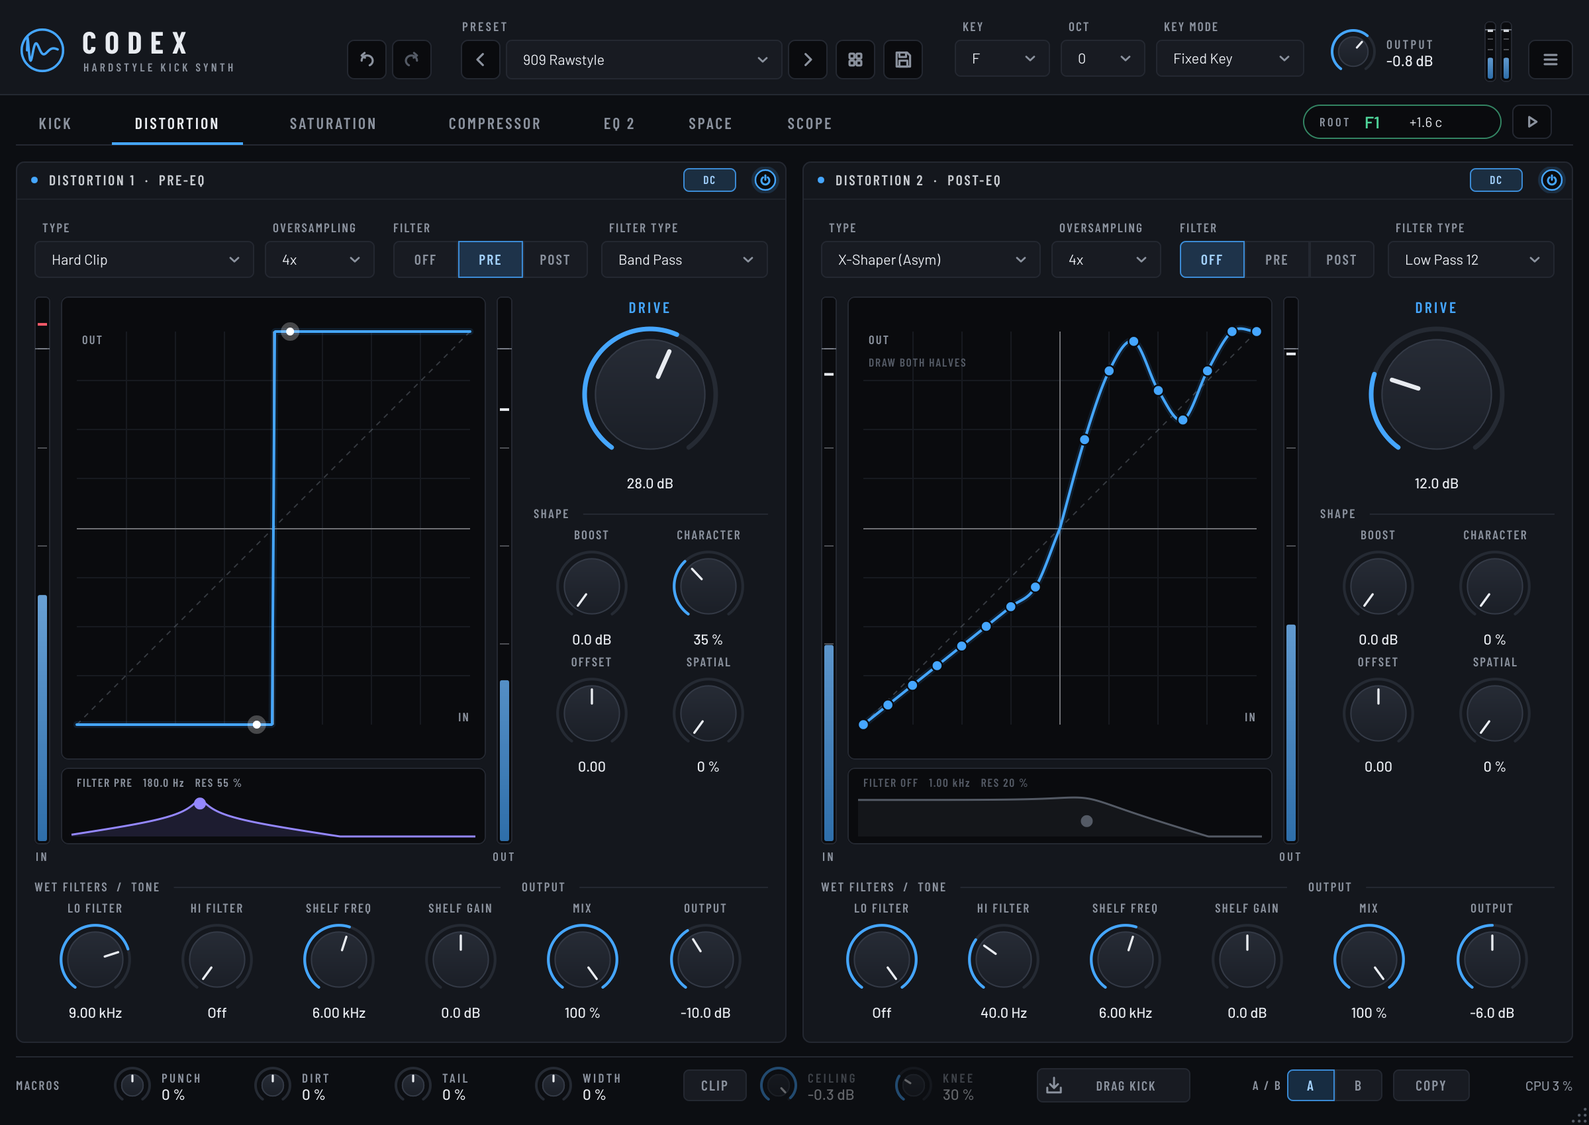
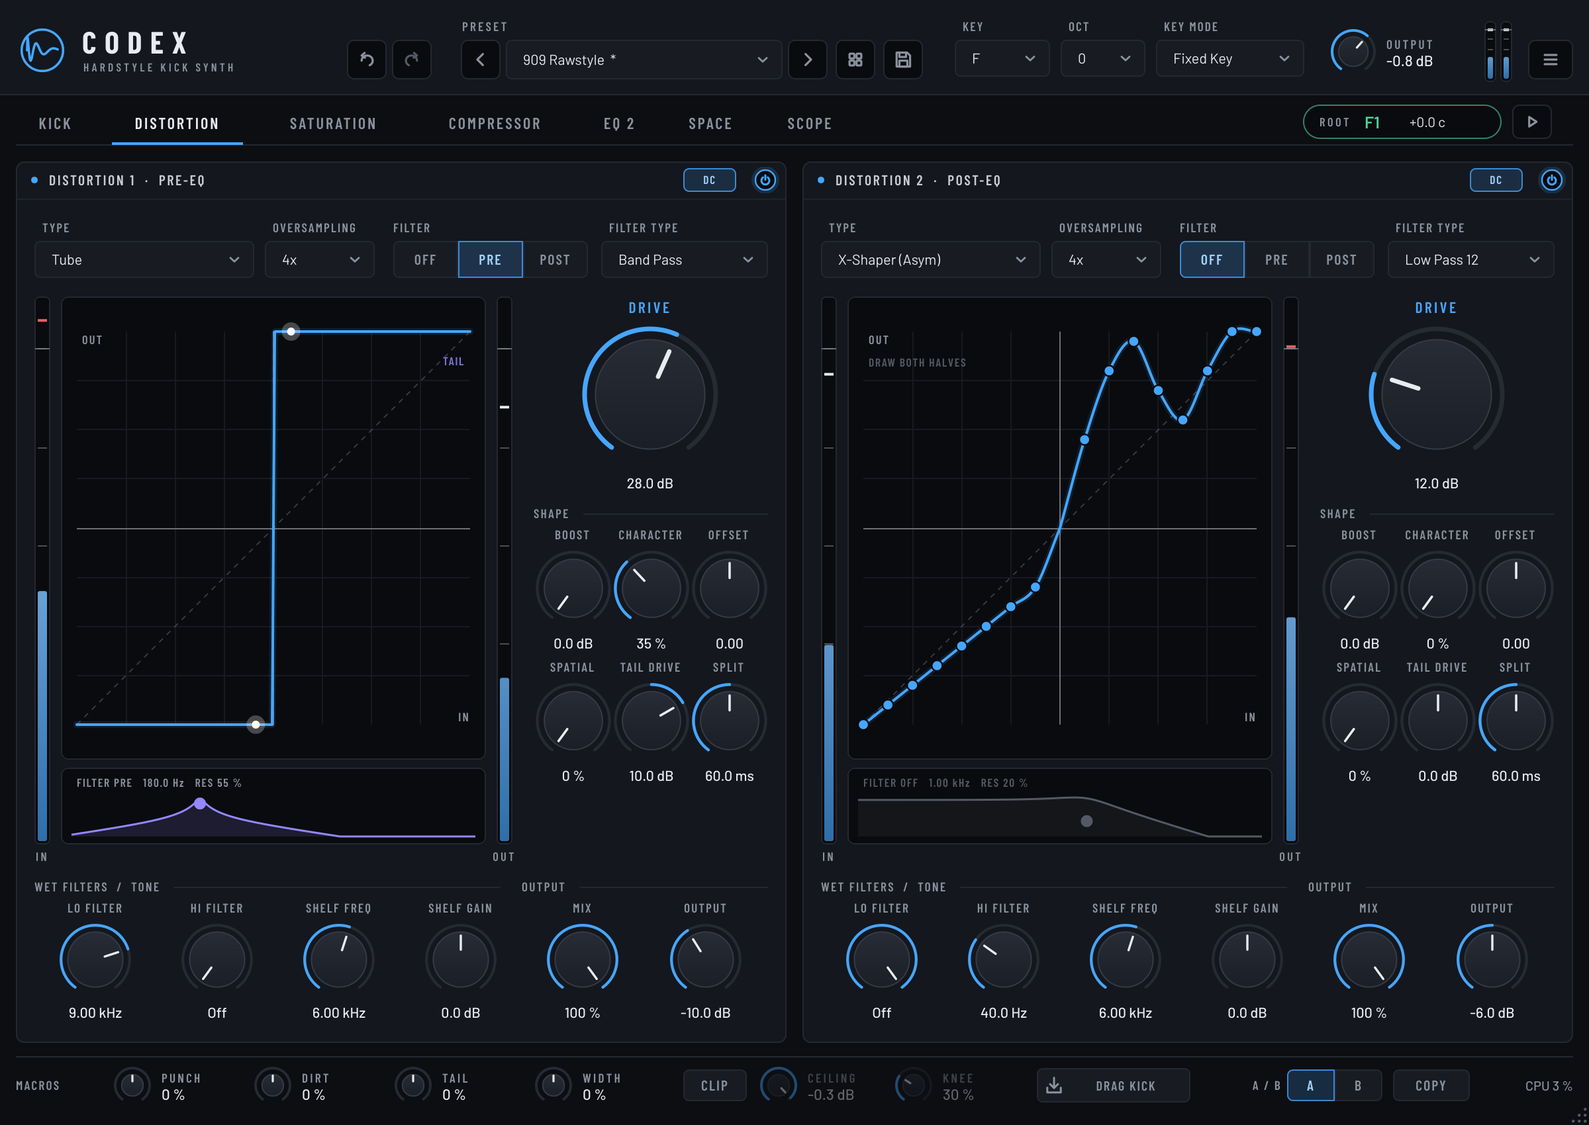
Distortion: punch / tail split (Tail Drive + Split, sample-accurate, tail curve in the display); tuner never shows -0.0
Claude-Session: https://claude.ai/code/session_01XxMp2YJXw4rSjWE8GsvmNR

diff --git a/Source/GUI/DistortionView.h b/Source/GUI/DistortionView.h
@@ -15,6 +15,7 @@ public:
     {
         auto p = [&] (const char* sfx) { return s.getRawParameterValue (ID::clip (stage, sfx)); };
         mode = p ("Mode"); drive = p ("Drive"); boost = p ("Boost"); offset = p ("Bias"); chr = p ("Char"); on = p ("On");
+        tailDrv = p ("TailDrv");
         for (int k = 0; k < ClipDistortion::numCurvePoints; ++k)
         {
             xp[(size_t) k] = s.getParameter (ID::clip (stage, ("XP" + juce::String (k + 1)).toRawUTF8()));
@@ -89,6 +90,24 @@ public:
             if (i == 0) curvePath.startNewSubPath (pt); else curvePath.lineTo (pt);
         }
         const auto col = enabled ? Colours_::accent : Colours_::textDim;
+        // the tail's curve (Tail Drive), dashed, behind the punch curve
+        if (enabled && ! shaper && std::abs (tailDrv->load()) > 0.05f)
+        {
+            const float tailGain = Decibels::decibelsToGain (drive->load() + boost->load() + tailDrv->load());
+            Path tail;
+            for (int i = 0; i <= steps; ++i)
+            {
+                const float x = -1.0f + 2.0f * (float) i / (float) steps;
+                const auto pt = toPoint (x, ClipDistortion::transfer (m, x, tailGain, off, c, &cv));
+                if (i == 0) tail.startNewSubPath (pt); else tail.lineTo (pt);
+            }
+            float dash[] = { 5.0f, 4.0f };
+            PathStrokeType (1.4f).createDashedStroke (tail, tail, dash, 2);
+            g.setColour (Colours_::accent2.withAlpha (0.85f));
+            g.fillPath (tail);
+            g.setFont (Fonts::label (10.5f, 0.08f));
+            g.drawText ("TAIL", Rectangle<float> (plot.getRight() - 44.0f, plot.getY() + 16.0f, 40.0f, 12.0f), Justification::centredRight);
+        }
         Colours_::strokeGlow (g, curvePath, col, 2.0f);
 
         if (shaper)
@@ -247,7 +266,7 @@ private:
 
     juce::AudioProcessorValueTreeState& apvts;
     int stage;
-    std::atomic<float> *mode, *drive, *boost, *offset, *chr, *on;
+    std::atomic<float> *mode, *drive, *boost, *offset, *chr, *on, *tailDrv;
     std::array<juce::RangedAudioParameter*, ClipDistortion::numCurvePoints> xp {}, xn {};
     juce::Rectangle<float> plot;
     float level = 0.0f, lastY = 0.0f;
@@ -389,6 +408,8 @@ public:
         character.attach (s, ID::clip (stage, "Char"));
         offset.attach (s, ID::clip (stage, "Bias"));
         spatial.attach (s, ID::clip (stage, "Spatial"));
+        tailDrive.attach (s, ID::clip (stage, "TailDrv"));
+        split.attach (s, ID::clip (stage, "Split"));
         loFilter.attach (s, ID::clip (stage, "LoFilt"));
         hiFilter.attach (s, ID::clip (stage, "HiFilt"));
         shelfFreq.attach (s, ID::clip (stage, "ShelfF"));
@@ -400,7 +421,7 @@ public:
         drive.label.setColour (juce::Label::textColourId, Colours_::accent);
 
         for (juce::Component* c : std::initializer_list<juce::Component*> {
-                 &power, &dcButton, &type, &oversampling, &filterPos, &filterType, &filterStrip, &transfer, &drive, &boost, &character, &offset, &spatial,
+                 &power, &dcButton, &type, &oversampling, &filterPos, &filterType, &filterStrip, &transfer, &drive, &boost, &character, &offset, &spatial, &tailDrive, &split,
                  &loFilter, &hiFilter, &shelfFreq, &shelfGain, &mix, &output, &inMeter, &outMeter })
             addAndMakeVisible (c);
 
@@ -499,12 +520,11 @@ public:
         middle.removeFromTop (6);
         shapeCaption = middle.removeFromTop (16);
         auto grid = middle;
-        const int rowH = juce::jmin (96, grid.getHeight() / 2);
+        const int rowH = juce::jmin (100, grid.getHeight() / 2);
         auto row1 = grid.removeFromTop (rowH), row2 = grid.removeFromTop (rowH);
-        boost.setBounds (row1.removeFromLeft (row1.getWidth() / 2));
-        character.setBounds (row1);
-        offset.setBounds (row2.removeFromLeft (row2.getWidth() / 2));
-        spatial.setBounds (row2);
+        const int cw = row1.getWidth() / 3;
+        boost.setBounds (row1.removeFromLeft (cw)); character.setBounds (row1.removeFromLeft (cw)); offset.setBounds (row1);
+        spatial.setBounds (row2.removeFromLeft (cw)); tailDrive.setBounds (row2.removeFromLeft (cw)); split.setBounds (row2);
 
         bypassNotice.setBounds (getLocalBounds().withTrimmedTop (29).reduced (1));
     }
@@ -546,7 +566,8 @@ private:
     TransferDisplay transfer;
     DistortionFilterStrip filterStrip;
     SegmentedChoice filterPos;
-    Knob drive { "Drive" }, boost { "Boost" }, character { "Character" }, offset { "Offset" }, spatial { "Spatial" };
+    Knob drive { "Drive" }, boost { "Boost" }, character { "Character" }, offset { "Offset" }, spatial { "Spatial" },
+         tailDrive { "Tail Drive" }, split { "Split" };
     Knob loFilter { "Lo Filter" }, hiFilter { "Hi Filter" }, shelfFreq { "Shelf Freq" }, shelfGain { "Shelf Gain" };
     Knob mix { "Mix" }, output { "Output" };
     LevelMeter inMeter, outMeter;

diff --git a/Source/DSP/ClipDistortion.h b/Source/DSP/ClipDistortion.h
@@ -77,11 +77,21 @@ public:
         int   filterPos = 0, filterType = LowPass12;   // filterPos: 0 = off, 1 = pre, 2 = post
         float filterHz = 1000.0f, filterRes = 0.2f;
         Curve curve;
+        // Punch / tail split: the drive moves by tailDriveDb from the hit to the tail over splitMs after each note-on
+        float tailDriveDb = 0.0f, splitMs = 60.0f;
     };
+
+    /** Drive change (dB) at a time after the hit: 0 at the hit, tailDriveDb after splitMs (smoothstep). */
+    static float tailDriveAt (float tailDriveDb, float splitMs, float msSinceHit) noexcept
+    {
+        const float u = juce::jlimit (0.0f, 1.0f, msSinceHit / juce::jmax (1.0f, splitMs));
+        return tailDriveDb * u * u * (3.0f - 2.0f * u);
+    }
 
     void prepare (double sr, int maxBlockSize)
     {
         baseRate = sr;
+        tailMul.assign ((size_t) juce::jmax (1, maxBlockSize), 1.0f);
         fixedTable (0);                                   // build the shared ADAA tables here, never on the audio thread
         curveTable.build ([] (float x) { return juce::jlimit (-1.0f, 1.0f, x); }, false);   // allocate the X-Shaper table up front
         for (int i = 0; i < 4; ++i)
@@ -121,8 +131,15 @@ public:
         applySettings (false);
     }
 
-    void process (float* left, float* right, int numSamples) noexcept
+    /** hitMs (optional): milliseconds since the last note-on for every sample (punch / tail split). */
+    void process (float* left, float* right, int numSamples, const float* hitMs = nullptr) noexcept
     {
+        // per-sample drive multiplier for the punch / tail split (computed at the base rate)
+        tailActive = hitMs != nullptr && std::abs (settings.tailDriveDb) > 0.01f && numSamples <= (int) tailMul.size();
+        if (tailActive)
+            for (int i = 0; i < numSamples; ++i)
+                tailMul[(size_t) i] = juce::Decibels::decibelsToGain (tailDriveAt (settings.tailDriveDb, settings.splitMs, hitMs[i]));
+
         float inPk = 0.0f;
         for (int i = 0; i < numSamples; ++i)
         {
@@ -447,7 +464,8 @@ private:
         if (filterPos != 0) updateFilterCoefficients (filterCutoff.getCurrentValue());
         for (int i = 0; i < n; ++i)
         {
-            const float d = drive.getNextValue(), off = offset.getNextValue(), chr = character.getNextValue();
+            const float d = drive.getNextValue() * (tailActive ? tailMul[(size_t) (i / osFactor)] : 1.0f);
+            const float off = offset.getNextValue(), chr = character.getNextValue();
             const float sp = spatial.getNextValue(), m = mix.getNextValue(), og = outGain.getNextValue();
             if (filterPos != 0 && filterCutoff.isSmoothing()) updateFilterCoefficients (filterCutoff.getNextValue());
 
@@ -499,6 +517,8 @@ private:
 
     double baseRate = 44100.0;
     std::array<std::unique_ptr<juce::dsp::Oversampling<float>>, 4> oversamplers;
+    std::vector<float> tailMul;
+    bool tailActive = false;
     int osFactor = 1;
     double curRate = 44100.0;
     juce::SmoothedValue<float, juce::ValueSmoothingTypes::Multiplicative> filterCutoff { 1000.0f };

diff --git a/Source/PluginProcessor.cpp b/Source/PluginProcessor.cpp
@@ -30,7 +30,7 @@ CodexProcessor::CodexProcessor()
         auto c = [&] (const char* sfx) { return p (ID::clip (s + 1, sfx)); };
         clipParams[s] = { c ("On"), c ("Mode"), c ("Drive"), c ("Boost"), c ("Char"), c ("Bias"), c ("LoFilt"), c ("HiFilt"),
                           c ("ShelfF"), c ("ShelfG"), c ("Mix"), c ("Out"), c ("DC"), c ("OS"), c ("Spatial"),
-                          c ("FltPos"), c ("FltType"), c ("FltFreq"), c ("FltRes") };
+                          c ("FltPos"), c ("FltType"), c ("FltFreq"), c ("FltRes"), c ("TailDrv"), c ("Split") };
         for (int k = 0; k < ClipDistortion::numCurvePoints; ++k)
         {
             clipParams[s].xp[(size_t) k] = c (("XP" + juce::String (k + 1)).toRawUTF8());
@@ -105,7 +105,7 @@ void CodexProcessor::prepareToPlay (double sampleRate, int samplesPerBlock)
     subDelayPos = 0;
     subLp1.reset(); subLp2.reset();
     subGain.reset (sampleRate, 0.02);
-    for (auto* v : { &left, &right, &mid, &sub })
+    for (auto* v : { &left, &right, &mid, &sub, &hitTime, &hitTime2 })
         v->assign ((size_t) chunkSize, 0.0f);
     scopePos = -1;
 
@@ -224,6 +224,8 @@ void CodexProcessor::updateParameters()
         cs.filterType   = (int) c.fltType->load();
         cs.filterHz     = c.fltFreq->load();
         cs.filterRes    = c.fltRes->load();
+        cs.tailDriveDb  = c.tailDrv->load();
+        cs.splitMs      = c.split->load();
         for (int k = 0; k < ClipDistortion::numCurvePoints; ++k)
         {
             cs.curve.pos[(size_t) k] = c.xp[(size_t) k]->load();
@@ -414,17 +416,23 @@ void CodexProcessor::processBlock (juce::AudioBuffer<float>& buffer, juce::MidiB
                 else          { next = std::min (t, n); break; }
             }
             voice.subOut = sub.data() + pos;
+            voice.hitTimeOut = hitTime.data() + pos;
             voice.render (l + pos, next - pos);
             pos = next;
         }
         std::copy (l, l + n, r);
 
         // Old-school chain: distort -> EQ -> distort again -> multiband saturation -> compressor -> EQ 2 -> space (stereo from here on)
-        clip1.process (l, r, n);
+        clip1.process (l, r, n, hitTime.data());
         for (int i = 0; i < n; ++i) m[i] = 0.5f * (l[i] + r[i]);
         analyzerPre.push (m, n);           // spectrum before the EQ (for the EQ display)
         equalisers[0].process (l, r, n);
-        clip2.process (l, r, n);
+        {
+            // Distortion 2 hears the hit later (Distortion 1 oversampling and EQ 1 latency): shift its clock
+            const float lagMs = (float) ((clip1.getLatencyInSamples() + equalisers[0].getLatencyInSamples()) * 1000.0 / getSampleRate());
+            for (int i = 0; i < n; ++i) hitTime2[(size_t) i] = hitTime[(size_t) i] >= lagMs ? hitTime[(size_t) i] - lagMs : 1.0e6f;
+        }
+        clip2.process (l, r, n, hitTime2.data());
         saturator.process (l, r, n);
         compressor.process (l, r, n);      // multiband up / down compression (off by default)
         for (int i = 0; i < n; ++i) m[i] = 0.5f * (l[i] + r[i]);

diff --git a/tools/Render.cpp b/tools/Render.cpp
@@ -945,6 +945,37 @@ int main (int argc, char** argv)
             std::cout << "  Downsample at max drive: " << repeats << " of 1999 samples held\n";
             if (repeats < 1800) ++bad;
         }
+        // punch / tail split in the plugin: tail drive changes the tail, not the punch
+        {
+            auto harmonicDb = [] (const juce::AudioBuffer<float>& b, double t0, double t1)
+            {
+                // energy above 300 Hz relative to the total (more distortion = more upper harmonics)
+                eq::BandSettings hp; hp.on = true; hp.type = eq::BandType::LowCut; hp.freq = 300.0f; hp.slope = 3;
+                auto d = eq::design (hp, sr);
+                std::vector<eq::Biquad> st ((size_t) d.numStages);
+                for (int k = 0; k < d.numStages; ++k) st[(size_t) k].c = d.stages[(size_t) k];
+                double hi = 0, all = 0;
+                for (int i = 0; i < (int) (t1 * sr); ++i)
+                {
+                    float v = b.getSample (0, i), h = v;
+                    for (auto& f : st) h = f.process (h);
+                    if (i >= (int) (t0 * sr)) { hi += (double) h * h; all += (double) v * v; }
+                }
+                return (float) (10.0 * std::log10 (hi / juce::jmax (1.0e-12, all)));
+            };
+            proc.presets.loadPreset (8);
+            setParam (proc, ID::clip (1, "Drive"), 6.0f);
+            const auto plain = render (proc, 1);
+            setParam (proc, ID::clip (1, "TailDrv"), 18.0f);
+            setParam (proc, ID::clip (1, "Split"), 40.0f);
+            const auto split = render (proc, 1);
+            const float punchA = harmonicDb (plain, 0.0, 0.012), punchB = harmonicDb (split, 0.0, 0.012);
+            const float tailA = harmonicDb (plain, 0.15, 0.3), tailB = harmonicDb (split, 0.15, 0.3);
+            std::cout << "  Punch / tail split (+18 dB tail drive): punch harmonics " << juce::String (punchA, 1) << " -> " << juce::String (punchB, 1)
+                      << " dB, tail harmonics " << juce::String (tailA, 1) << " -> " << juce::String (tailB, 1) << " dB\n";
+            if (std::abs (punchB - punchA) > 1.5f || tailB < tailA + 3.0f) ++bad;
+            proc.presets.loadPreset (0);
+        }
         std::cout << "Distortion engine checks: " << (bad == 0 ? "OK" : "FAILED") << "\n";
         failures += bad;
     }
@@ -1218,6 +1249,7 @@ int main (int argc, char** argv)
     proc.presets.loadPreset (10);
     setParam (proc, ID::clip (1, "FltPos"), 1.0f); setParam (proc, ID::clip (1, "FltType"), 2.0f);
     setParam (proc, ID::clip (1, "FltFreq"), 180.0f); setParam (proc, ID::clip (1, "FltRes"), 0.55f);
+    setParam (proc, ID::clip (1, "TailDrv"), 10.0f); setParam (proc, ID::clip (1, "Mode"), (float) ClipDistortion::Tube);
     setParam (proc, ID::clip (2, "Mode"), (float) ClipDistortion::XShaperAsym);
     {
         const float ys[] = { 0.45f, 0.8f, 0.95f, 0.7f, 0.55f, 0.8f, 1.0f, 1.0f };

diff --git a/Source/DSP/KickVoice.h b/Source/DSP/KickVoice.h
@@ -40,6 +40,8 @@ public:
 
     /** Optional second output: the clean sub layer (same length as `out`), or nullptr. */
     float* subOut = nullptr;
+    /** Optional output: milliseconds since the last note-on, per sample (for the distortion's punch / tail split). */
+    float* hitTimeOut = nullptr;
     /** Level of the current note from its velocity (set before noteOn). */
     float velocityGain = 1.0f;
 
@@ -116,6 +118,7 @@ public:
         pulseEnv = 1.0f;
         env909 = fast909 = slow909 = 1.0f;
         subTime = 0.0f;
+        hitClock = 0.0f;
     }
 
     void noteOff (int midiNote)
@@ -143,6 +146,10 @@ public:
 
     void render (float* out, int numSamples) noexcept
     {
+        if (hitTimeOut != nullptr)
+            for (int i = 0; i < numSamples; ++i) { hitTimeOut[i] = hitClock; hitClock = std::min (hitClock + msPerSample, 1.0e6f); }
+        else
+            hitClock = std::min (hitClock + msPerSample * (float) numSamples, 1.0e6f);
         if (settings.engine == Engine909) render909 (out, numSamples);
         else                              renderSynth (out, numSamples);
     }
@@ -277,7 +284,7 @@ private:
     Kick909Model model = kick909Models()[0];
     double baseFreq = 55.0, phase = 0.0;
     int currentNote = -1;
-    float subTime = 0.0f, msPerSample = 1000.0f / 44100.0f, noteGain = 1.0f;
+    float subTime = 0.0f, msPerSample = 1000.0f / 44100.0f, noteGain = 1.0f, hitClock = 1.0e6f;
 
     float clickEnv = 0.0f, clickMul = 0.99f, noiseLevel = 0.0f;
     float pulseEnv = 0.0f, pulseMul = 0.9f, pulseLevel = 0.0f;

diff --git a/Source/GUI/Tuner.h b/Source/GUI/Tuner.h
@@ -106,7 +106,8 @@ public:
         const bool hasReading = analyser.hasReading();
         const float shownNote = hasReading ? frequencyToMidi (analyser.getMeasuredHz()) : target;
         const int nearest = roundToInt (shownNote);
-        const float cents = (shownNote - (float) nearest) * 100.0f;
+        float cents = (shownNote - (float) nearest) * 100.0f;
+        if (std::abs (cents) < 0.05f) cents = 0.0f;   // never show "-0.0"
         const bool onTarget = hasReading && std::abs (shownNote - target) < 0.1f;   // within 10 cents
         const auto noteColour = ! hasReading ? Colours_::textDim : (onTarget ? Colour (0xff51e5a0) : Colours_::accent);
 
@@ -183,7 +184,8 @@ public:
         const float target = analyser.getTargetNote();
         const float note = has ? frequencyToMidi (analyser.getMeasuredHz()) : target;
         const int nearest = roundToInt (note);
-        const float cents = (note - (float) nearest) * 100.0f;
+        float cents = (note - (float) nearest) * 100.0f;
+        if (std::abs (cents) < 0.05f) cents = 0.0f;   // never show "-0.0"
         const bool onTarget = has && std::abs (note - target) < 0.1f;
         const auto col = ! has ? Colours_::textDim : (onTarget ? Colours_::good : Colours_::accent);
         g.setColour (has ? col.withAlpha (0.6f) : Colours_::outline);

diff --git a/Source/GUI/Help.h b/Source/GUI/Help.h
@@ -145,6 +145,8 @@ namespace Help
                 { "FltType", "Filter Type: Low Pass 12/24 dB, Band Pass, High Pass 12/24 dB or Notch. Tip: a resonant Band Pass PRE the curve is a classic way to focus the distortion on the punch." },
                 { "FltFreq", "Filter Freq: cutoff / centre frequency of the distortion filter. Drag the handle on the transfer display's filter strip, or use the knob." },
                 { "FltRes",  "Filter Resonance: emphasis around the cutoff. High resonance PRE the curve gives a ringing, tonal distortion." },
+                { "TailDrv", "Tail Drive: changes the drive for the tail of the kick (after Split) relative to the punch. Positive = a dirtier, rawer tail with a cleaner punch; negative = a hard punch with a smoother tail." },
+                { "Split",   "Punch / Tail Split: time after each hit at which the tail drive is fully reached (smooth transition from the hit)." },
                 { "Spatial", "Spatial: Distorts the left and right channels slightly differently (drive and operating point), creating stereo width from the mono kick. Use the EQ's Side placement to shape it." },
             };
             if (auto it = dist.find (sfx); it != dist.end())

diff --git a/Source/PluginProcessor.h b/Source/PluginProcessor.h
@@ -129,7 +129,7 @@ private:
     juce::AudioProcessLoadMeasurer loadMeasurer;
     OutputClipper clipper;
     std::atomic<float> *clipOnParam = nullptr, *clipCeilParam = nullptr, *clipSoftParam = nullptr;
-    std::vector<float> left, right, mid, sub;
+    std::vector<float> left, right, mid, sub, hitTime, hitTime2;
     // Clean sub layer: delayed by the effect chain's latency so it stays phase-aligned with the kick
     std::vector<float> subDelay;
     int subDelayPos = 0;
@@ -147,7 +147,7 @@ private:
 
     struct BandParams { std::atomic<float>* on, * type, * freq, * gain, * q, * slope, * place; };
     struct ClipParams { std::atomic<float> *on, *mode, *drive, *boost, *chr, *bias, *loFilt, *hiFilt, *shelfF, *shelfG, *mix, *out, *dc, *os, *spatial,
-                               *fltPos, *fltType, *fltFreq, *fltRes;
+                               *fltPos, *fltType, *fltFreq, *fltRes, *tailDrv, *split;
                         std::array<std::atomic<float>*, ClipDistortion::numCurvePoints> xp {}, xn {}; };
     struct SatBandParams { std::atomic<float> *style, *drive, *mix, *fb, *fbFreq, *dyn, *bass, *midT, *treble, *pres, *drivePan, *levelPan, *level, *mute, *solo, *bypass; };
 

diff --git a/Source/Parameters.cpp b/Source/Parameters.cpp
@@ -147,6 +147,9 @@ AudioProcessorValueTreeState::ParameterLayout Params::createLayout()
         addChoice (l, ID::clip (stage, "FltType"), n + "Filter Type", ClipDistortion::filterTypeNames(), 0);
         addFloat (l, ID::clip (stage, "FltFreq"), n + "Filter Freq", skewed (20.0f, 20000.0f, 640.0f), 1000.0f, hzText);
         addFloat (l, ID::clip (stage, "FltRes"), n + "Filter Resonance", { 0.0f, 1.0f }, 0.2f, pctText);
+        // Punch / tail split
+        addFloat (l, ID::clip (stage, "TailDrv"), n + "Tail Drive", { -24.0f, 24.0f, 0.01f }, 0.0f, dbText);
+        addFloat (l, ID::clip (stage, "Split"), n + "Punch / Tail Split", skewed (5.0f, 400.0f, 60.0f), 60.0f, msText);
         // X-Shaper curve points (positive half; negative half used by X-Shaper Asym)
         for (int k = 0; k < ClipDistortion::numCurvePoints; ++k)
         {

diff --git a/README.md b/README.md
@@ -110,6 +110,7 @@ Two full distortion units, one **before** and one **after** the EQ:
 | Shape | *Drive*, *Boost* (input gain on dry and wet), *Character* (morphs any curve towards a square wave), *Offset* (asymmetry), *Spatial* (distorts left and right differently for stereo width). |
 | Wet filters / tone | *Lo Filter* (low-pass before the distortion), *Hi Filter* (high-pass after it), *Shelf Freq/Gain*. |
 | Output | *Mix* (dry/wet), *Output*. |
+| Punch / tail | *Tail Drive* (±24 dB) changes the drive for the tail relative to the punch; *Split* sets how long after each hit the tail setting is reached. Raw tail with a clean punch, or a hard punch with a smooth tail, without layering. |
 | Filter | Resonant *Pre* / *Post* filter on the distorted path (Low Pass 12/24, Band Pass, High Pass 12/24, Notch). Drag the response strip under the transfer display: left/right = frequency, up/down = resonance. A resonant band-pass *Pre* focuses the distortion on one part of the kick. |
 | X-Shaper | In the *X-Shaper* modes, drag the points on the transfer display to draw your own curve (*Asym*: both halves separately); right-click for preset curves. |
 | Options | *Oversampling* (Off/2x/4x/8x/16x) and *DC Filter*. Every curve also uses antiderivative anti-aliasing, so 4x already keeps audible aliasing around -64 dB on a hard-clipped 5 kHz tone. |

diff --git a/CHANGELOG.md b/CHANGELOG.md
@@ -25,6 +25,9 @@ All notable changes to Codex. Versions follow [Semantic Versioning](https://semv
 - **Draw envelopes**: pitch and amp envelopes can switch from ADSR to DRAW mode: up to 8 breakpoints with a bend per
   segment, edited directly in the display (drag points and bend handles, double-click to add/delete, right-click for
   shapes). Pitch Amount and the amp Release still apply.
+- **Punch / tail split** per distortion unit: *Tail Drive* changes the drive for the tail relative to the punch,
+  reached *Split* ms after each hit (sample-accurate; e.g. +18 dB adds 18 dB of tail harmonics while the punch stays
+  identical). The transfer display shows the tail's curve dashed.
 - **Distortion engine upgrade** (synth-style workflow):
   - Resonant **Pre / Post filter** per unit (Low Pass 12/24, Band Pass, High Pass 12/24, Notch), zero-delay SVF that
     stays clean under fast changes; response strip under the transfer display (drag: frequency + resonance).
